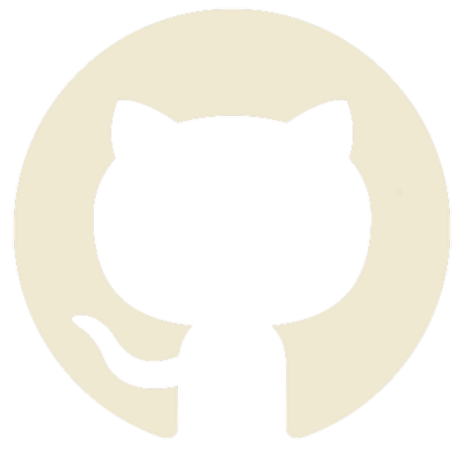
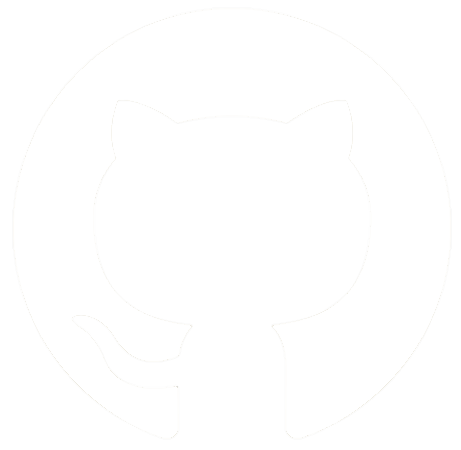
Added animated bg and changed design

diff --git a/index.html b/index.html
@@ -3,12 +3,15 @@
   <head>
     <meta charset="UTF-8" />
     <meta name="viewport" content="width=device-width, initial-scale=1.0" />
+    <link rel="preconnect" href="https://fonts.googleapis.com">
+    <link rel="preconnect" href="https://fonts.gstatic.com" crossorigin>
+    <link href="https://fonts.googleapis.com/css2?family=Lato:wght@100;300;400;700;900&display=swap" rel="stylesheet">
     <title>Arwin's cool website</title>
-    <script type="module" crossorigin src="/assets/index-263f4675.js"></script>
-    <link rel="stylesheet" href="/assets/index-4032ce9c.css">
+    <script type="module" crossorigin src="/assets/index-c5340f7c.js"></script>
+    <link rel="stylesheet" href="/assets/index-1e031465.css">
   </head>
   <body>
-    <div id="root" className="bg-[#678983] min-h-screen"></div>
+    <div id="root"></div>
     
   </body>
 </html>
